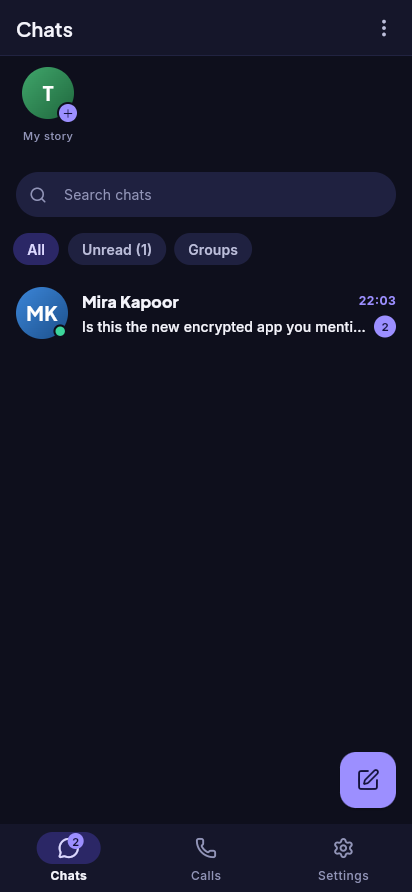
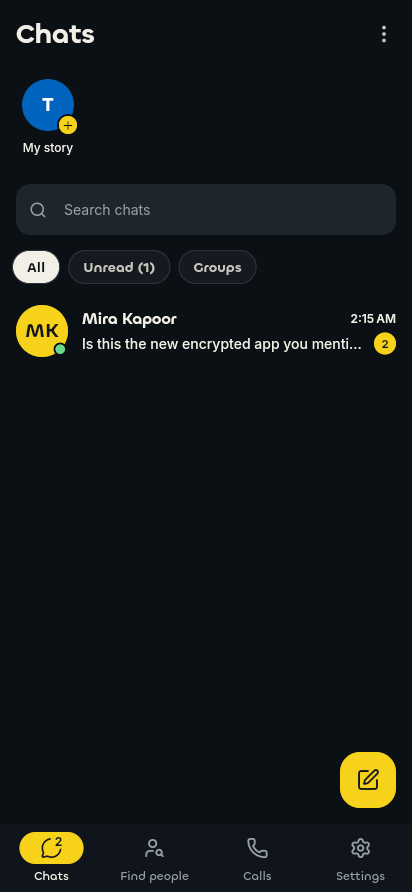
Release 1.2.0+3: notes, What's new, fresh screenshots on the site
Claude-Session: https://claude.ai/code/session_01AjYRFkxtG9Us5mffXJWdWN

diff --git a/lib/features/whats_new/whats_new.dart b/lib/features/whats_new/whats_new.dart
@@ -12,11 +12,10 @@ abstract final class WhatsNew {
   static const _key = 'whats_new_seen';
 
   static const highlights = [
-    (LucideIcons.sparkles, 'Stories', 'Share a moment with the people you pick. It disappears after 24 hours.'),
-    (LucideIcons.phone, 'Calls that keep going', 'Calls ring like a phone call and carry on with the screen off.'),
-    (LucideIcons.messageSquareReply, 'Reply from notifications', 'Answer or mark as read without opening the app.'),
-    (LucideIcons.pin, 'Pin, archive, star, forward', 'Keep your chats tidy and find any message.'),
-    (LucideIcons.palette, 'A fresh look', 'A new design, a new icon and Gujarati.'),
+    (LucideIcons.userSearch, 'Find people has its own tab', 'Search by username and answer contact requests from one place.'),
+    (LucideIcons.refreshCw, 'Settings shows your version and checks for updates', 'See the version you have, when we last checked, and update in a tap.'),
+    (LucideIcons.palette, 'A new look and a new icon', 'Paper and ink colours, new headings, and a new logo.'),
+    (LucideIcons.monitorSmartphone, 'Calls fit on small and sideways screens', 'Call controls stay on screen on short phones and in landscape.'),
   ];
 
   /// Whether to show it: the app was used before, and not since this version.

diff --git a/website/index.html b/website/index.html
@@ -147,7 +147,7 @@
             </div>
             <div class="mat mat--leaf">
               <figure class="shot" data-slot="people" data-kind="product" data-alt="The Find people tab: search, requests and invite friends">
-                <img src="assets/screens/14_contact_info.webp" alt="Contact info with the safety number" width="412" height="892" loading="lazy">
+                <img src="assets/screens/07_find_people_result.webp" alt="The Find people tab with a search result" width="412" height="892" loading="lazy">
               </figure>
             </div>
           </article>

diff --git a/lib/core/config/app_version.dart b/lib/core/config/app_version.dart
@@ -1,5 +1,5 @@
 /// This build's version (kept equal to pubspec.yaml by a test).
 abstract final class AppVersion {
-  static const name = '1.1.0';
-  static const code = 2;
+  static const name = '1.2.0';
+  static const code = 3;
 }

diff --git a/tools/build_site.py b/tools/build_site.py
@@ -29,7 +29,7 @@ SITE = os.path.join(ROOT, 'website')
 # Screens the site shows (website/index.html references these names).
 SCREENS = [
     '10_chats_unread', '12c_reply_react_edit_delete', '15c_group_chat', '13b_incoming_call',
-    '16b_calls', '14_contact_info', '16d_story_viewer',
+    '16b_calls', '14_contact_info', '16d_story_viewer', '06_find_people_empty', '07_find_people_result',
 ]
 
 

diff --git a/docs/RELEASE_NOTES_1.2.md b/docs/RELEASE_NOTES_1.2.md
@@ -1,0 +1,66 @@
+# Securely Hello 1.2
+
+Version `1.2.0`, build `3`. Android from 7.0 up.
+
+## What's new
+
+**Find people has its own tab.** The bottom bar (and the side rail on
+wide screens) now reads Chats, Find people, Calls, Settings. Search by
+username, send and answer contact requests, and invite friends from one
+place. The badge for incoming requests moved from Chats to Find people, so
+the Chats badge counts unread messages only. Empty states in Chats and the
+contact lists take you to the new tab.
+
+**Settings shows your version and checks for updates.** The App updates
+section shows the version you have (the real one, not a fixed number), the
+status of the last check, when it was checked, the size of the update, and
+a Check for updates button. The app still checks on its own about every 12
+hours.
+
+**A new look and a new icon.** A new "Sealed note" logo: a speech bubble
+with an envelope flap. The app uses paper and ink colours with pear for
+actions, in light and dark themes. Headings, names, titles and buttons are
+set in Chillax; tab labels use Chillax Medium. The launch screen, the
+Android icon and the notification icon match.
+
+**Calls fit on small and sideways screens.** The call screen keeps its
+controls on screen on short phones and in landscape.
+
+**A redesigned website.** The product page uses the new look, and it
+works on phones and on wide screens. The screenshots show the Find people
+tab.
+
+## Fixed
+
+- The Settings screen showed a fixed version number. It now shows the
+  version the app was built with.
+- The Android button on the invite page was hidden. It now links to the
+  APK on the website.
+- Switching between tabs no longer breaks when the app is locked.
+- Some labels in Settings were cut off. They now wrap.
+- The call screen's controls could fall off the bottom of short screens.
+
+## Updates inside the app
+
+- The download is checked against the size in the update file while it
+  downloads, not only at the end. A file that is too large is stopped.
+- Old downloaded APKs are deleted in the background, so an update doesn't
+  leave copies of previous versions on the phone.
+- The app identifies itself to the server as `SecurelyHello/1.2.0`
+  (Android for the updater, Flutter for the API).
+
+## Fonts
+
+Chillax is not in git, because of its licence (ITF Free Font License,
+text in `assets/fonts/FFL-Chillax.txt`). Fetch the font files once with
+`python3 tools/fetch_fonts.py` before building. The script puts them in
+`assets/fonts/` and `website/assets/fonts/`.
+
+## For the operator
+
+- Publish the release with `tools/release_apk.py` as before. The update
+  file (`latest.json`) now carries each APK's size, which the updater uses
+  to check the download. Older files without a size still work.
+- No new database migrations: the newest is `018_account.sql`, from 1.1.
+
+What 1.2 didn't do, and what is still open: [KNOWN_ISSUES.md](KNOWN_ISSUES.md).

diff --git a/docs/KNOWN_ISSUES.md b/docs/KNOWN_ISSUES.md
@@ -32,7 +32,7 @@ list current: move an item to "Fixed" with the commit that fixed it.
 | Calls | The other side dropped 4–5 s after a hang-up. | The hang-up goes over the call's own data channel first (about 130 ms locally). A connection that's lost ends the call after 1 s. |
 | Calls | When one side vanished (app killed, network gone), the other side only noticed after about 6 s. | Its control channel closing is noticed: about 1 s. |
 | Chat header | On a small phone with large text, the "online" / "last seen" line was squeezed to nothing (with a 3 px overflow). | The status and the connection badge share the line. |
-| Fonts | The app downloaded its fonts from fonts.gstatic.com on first use, a request to Google that showed the user's IP address. Text fell back to the system font when it failed. | Plus Jakarta Sans, Inter and Source Code Pro are bundled in the app (`assets/fonts/`). `google_fonts` is gone. |
+| Fonts | The app downloaded its fonts from fonts.gstatic.com on first use, a request to Google that showed the user's IP address. Text fell back to the system font when it failed. | Fonts are bundled in the app (`assets/fonts/`): in 1.1 Plus Jakarta Sans, Inter and Source Code Pro; in 1.2 Plus Jakarta was replaced by Chillax for headings. `google_fonts` is gone. |
 | Drafts | Signing out with a chat open crashed: the chat saved its draft into storage sign-out had already closed. Found by the UI walkthrough. | The draft is dropped once storage is closed (`test/chat_organisation_test.dart`). |
 | Linked devices | A device added to your own account was trusted as soon as the server listed it. | Your own devices must carry an approval signed by one of your devices, checked on the phone. Unsigned ones are shown with a "Confirm" button and get nothing until confirmed. |
 
